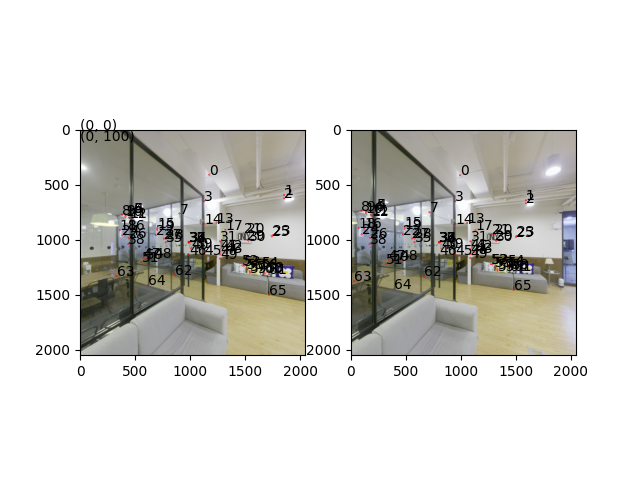
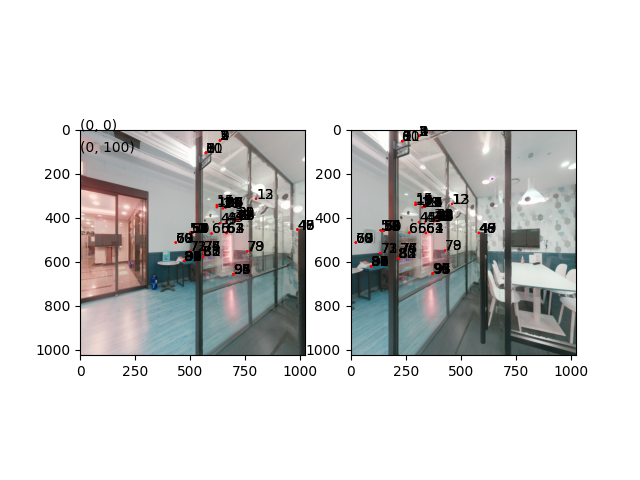
logging config

Changed region(s): [[0.0625, 0.25, 0.9062, 0.7812], [0.0625, 0.7188, 0.0938, 0.75]]

diff --git a/Train_model_frontend_cubemap.py b/Train_model_frontend_cubemap.py
@@ -4,6 +4,7 @@ base class: inherited by other Train_model_*.py
 Author: You-Yi Jau, Rui Zhu
 Date: 2019/12/12
 """
+import os
 import logging
 import torch
 import torch.optim
@@ -19,7 +20,7 @@ from utils.tools import dict_update
 from utils.utils import labels2Dto3D, flattenDetection, labels2Dto3D_flattened
 from utils.utils import pltImshow, saveImg
 from utils.utils import precisionRecall_torch
-from utils.utils import save_checkpoint
+from utils.utils import save_checkpoint, get_log_dir
 
 
 def thd_img(img, thd=0.015):
@@ -195,6 +196,7 @@ class Train_model_frontend_cubemap(object):
             self.net.bnDa.weight.requires_grad = True
             self.net.convDb.weight.requires_grad = True
             self.net.bnDb.weight.requires_grad = True
+            print("\n\n Train only descriptor")
 
         self.optimizer = optimizer
         self.n_iter = setIter(n_iter)
@@ -253,14 +255,14 @@ class Train_model_frontend_cubemap(object):
         running_losses = []
         epoch = 0
         # Train one epoch
-        test = False ##########################################
         while self.n_iter < self.max_iter:
             print("epoch: ", epoch)
             epoch += 1
             self.visualize = True
             for i, sample_train in tqdm(enumerate(self.train_loader)):
                 # train one sample
-                loss_out = self.train_val_sample(sample_train, self.n_iter, True)
+                # loss_out = self.train_val_sample(sample_train, self.n_iter, True)
+                loss_out = 0
                 self.n_iter += 1
                 running_losses.append(loss_out)
                 # run validation
@@ -270,25 +272,25 @@ class Train_model_frontend_cubemap(object):
                         self.train_val_sample(sample_val, self.n_iter + j, False)
                         if j > self.config.get("validation_size", 3):
                             break
+                if self.n_iter % 100 == 0:
+                    iterlog = f"iter {self.n_iter}, loss: {self.loss}"
+                    print(iterlog)
+                    self.write_log(iterlog)
                 # save model
                 if self.n_iter % self.config["save_interval"] == 0:
-                    logging.info(
-                        "save model: every %d interval, current iteration: %d",
-                        self.config["save_interval"],
-                        self.n_iter,
-                    )
                     self.saveModel()
                 # ending condition
                 if self.n_iter > self.max_iter:
                     # end training
                     logging.info("End training: %d", self.n_iter)
                     break
-                if test:
-                    break
-            if test:
-                break
 
         pass
+    def write_log(self, string):
+        logfile = os.path.join(self.save_path, 'log.txt')
+        with open(logfile, 'a') as f:
+            f.write(string)
+            f.write("\n")
 
     def getLabels(self, labels_2D, cell_size, device="cpu"):
         """
@@ -373,11 +375,11 @@ class Train_model_frontend_cubemap(object):
         semi, coarse_desc = outs['semi'], outs['desc']
         semi_warp, coarse_desc_warp = outs_warp['semi'], outs_warp['desc']
 
-        thd = 0.4
+        thd = 0.1
 
         desc = self.interpolate_to_dense(coarse_desc)
         desc_w = self.interpolate_to_dense(coarse_desc_warp)
-
+        
         hms = thd_img(flattenDetection(semi), thd=thd)
         hms_w = thd_img(flattenDetection(semi_warp), thd=thd)
         loss = 0
@@ -389,20 +391,23 @@ class Train_model_frontend_cubemap(object):
 
             dbs= sample['kpts2D'][b].to(self.device)
             dbs_w= sample['kpts2D_w'][b].to(self.device)
+            dbs, dbs_w = (dbs*0.5).int().float(), (dbs_w*0.5).int().float()
 
             output_kpts_idx = []
             output_3Dcoor = []
             dbslist = dbs.detach().cpu().tolist()
             dbslist_w = dbs_w.detach().cpu().tolist()
             for i, pt in enumerate(kpts.detach().cpu().tolist()):
-                if pt in dbslist:
+                pt = self.pt_in_list(pt=pt, dblist=dbslist)
+                if pt:
                     output_kpts_idx.append(i)            # output_kpts_idx: [2, 3, 5, 6, 7, 9, ...] db에 있는 kpt 인덱스
                     output_3Dcoor.append(sample['kpts3D'][b][dbslist.index(pt)])   # [2번의3D좌표, 3번의 3D좌표, 5번의 3D좌표, ...]
 
             output_kpts_idx_w = []
             output_3Dcoor_w = []
             for i, pt_w in enumerate(kpts_w.detach().cpu().tolist()):
-                if pt_w in dbslist_w:
+                pt_w = self.pt_in_list(pt=pt_w, dblist=dbslist_w)
+                if pt_w:
                     output_kpts_idx_w.append(i)
                     output_3Dcoor_w.append(sample['kpts3D_w'][b][dbslist_w.index(pt_w)])
 
@@ -423,15 +428,16 @@ class Train_model_frontend_cubemap(object):
                 kpts, matched_kpts_idx, 
                 kpts_w, matched_kpts_idx_w
             )
-            if self.visualize and b == 0:
-                self.visualize_kpts(
-                    sample['img_path'][b], 
-                    sample['img_path_w'][b], 
-                    kpts[matched_kpts_idx.int()], 
-                    kpts_w[matched_kpts_idx_w.int()], 
-                    n=1000)
-                self.visualize = False
-                self.figname += 1
+            if b == 0:
+                if self.figname < 20:
+                    self.visualize_kpts(
+                        img, 
+                        img_w, 
+                        kpts[matched_kpts_idx.int()], 
+                        kpts_w[matched_kpts_idx_w.int()], 
+                        n=1000)
+                    self.visualize = False
+                    self.figname += 1
             loss += loss_desc
 
         self.loss = loss
@@ -441,12 +447,18 @@ class Train_model_frontend_cubemap(object):
 
         return loss.item()
 
+    def pt_in_list(self, pt, dblist):
+        for xvar in [-1, 0, 1]:
+            for yvar in [-1, 0, 1]:
+                if [pt[0]+xvar, pt[1]+yvar] in dblist:
+                    return [pt[0]+xvar, pt[1]+yvar]
+        return False
     def saveModel(self):
         """
         # save checkpoint for resuming training
         :return:
         """
-        model_state_dict = self.net.module.state_dict()
+        model_state_dict = self.net.state_dict()
         save_checkpoint(
             self.save_path,
             {
@@ -477,7 +489,16 @@ class Train_model_frontend_cubemap(object):
             self.writer.add_image(task + "-" + name, img_tensor[:, :, :], n_iter)
 
     def visualize_kpts(self, imname1, imname2, kpts1, kpts2, n=3):
-        im1, im2 = np.array(Image.open(imname1)), np.array(Image.open(imname2))
+        if type(imname1) == str:
+            im1, im2 = np.array(Image.open(imname1)), np.array(Image.open(imname2))
+        else:
+            if imname1.shape[1] == 3:
+                imname1 = imname1[0].transpose(0,1).transpose(1,2)
+                imname2 = imname2[0].transpose(0,1).transpose(1,2)
+            elif imname.shape[0] == 3:
+                imname1 = imname1.transpose(0,1).transpose(1,2)
+                imname2 = imname2.transpose(0,1).transpose(1,2)
+            im1, im2 = imname1.detach().cpu().numpy(), imname2.detach().cpu().numpy()
         R = 2
         fig, ax = plt.subplots(1, 2) 
         
@@ -500,7 +521,7 @@ class Train_model_frontend_cubemap(object):
             i += 1
             if i>=n:
                 break
-        plt.savefig(f'figures/{self.figname}.png')
+        plt.savefig(os.path.join(self.save_path, f'figures/{self.figname}.png'))
 
     # tensorboard
     def addImg2tensorboard(

diff --git a/train_cubemap.py b/train_cubemap.py
@@ -17,7 +17,7 @@ import torch.utils.data
 from tensorboardX import SummaryWriter
 
 # from utils.utils import tensor2array, save_checkpoint, load_checkpoint, save_path_formatter
-from utils.utils import getWriterPath
+from utils.utils import getWriterPath, get_log_dir
 from settings import EXPER_PATH
 
 ## loaders: data, model, pretrained model
@@ -55,17 +55,14 @@ def train_joint(config, output_dir, args):
     
     device = torch.device("cuda" if torch.cuda.is_available() else "cpu")
     logging.info('train on device: %s', device)
+    output_dir = get_log_dir('logs')
     with open(os.path.join(output_dir, 'config.yml'), 'w') as f:
         yaml.dump(config, f, default_flow_style=False)
-    # writer = SummaryWriter(getWriterPath(task=args.command, date=True))
-    writer = SummaryWriter(getWriterPath(task=args.command, 
-        exper_name=args.exper_name, date=True))
     ## save data
-    save_path = get_save_path(output_dir)
 
     # data loading
     # data = dataLoader(config, dataset='syn', warp_input=True)
-    data = dataLoader(config, dataset=task, warp_input=True)
+    data = dataLoader(config, dataset=config['data']['dataset'], warp_input=True)
     train_loader, val_loader = data['train_loader'], data['val_loader']
 
     datasize(train_loader, config, tag='train')
@@ -75,10 +72,7 @@ def train_joint(config, output_dir, args):
     from utils.loader import get_module
     train_model_frontend = get_module('', config['front_end_model'])
 
-    train_agent = train_model_frontend(config, save_path=save_path, device=device)
-
-    # writer from tensorboard
-    train_agent.writer = writer
+    train_agent = train_model_frontend(config, save_path=output_dir, device=device)
 
     # feed the data into the agent
     train_agent.train_loader = train_loader
@@ -132,13 +126,13 @@ if __name__ == '__main__':
 
     with open(args.config, 'r') as f:
         config = yaml.safe_load(f)
-    # EXPER_PATH from settings.py
-    output_dir = os.path.join(EXPER_PATH, args.exper_name)
-    os.makedirs(output_dir, exist_ok=True)
+
+    EXPER_PATH = 'logs'
+    os.makedirs(EXPER_PATH, exist_ok=True)
 
     # with capture_outputs(os.path.join(output_dir, 'log')):
 
     logging.info('Running command {}'.format(args.command.upper()))
-    args.func(config, output_dir, args)
+    args.func(config, EXPER_PATH, args)
 
 

diff --git a/utils/utils.py b/utils/utils.py
@@ -4,6 +4,7 @@
 # warping
 # loss --> delete if useless
 """
+import os
 
 import numpy as np
 import torch
@@ -119,12 +120,24 @@ def find_files_with_ext(directory, extension='.npz'):
                 # print(l)
         return list_of_files
 
+def get_timeinfo():
+    import datetime 
+    now = datetime.datetime.now()
+    timeinfo = f"{str(now.year)[2:]}{now.month}{now.day}_{now.hour}{now.minute}{now.second}"
+    return timeinfo
+
+def get_log_dir(save_path, runname='RD'):
+    logdir = os.path.join(save_path, f"{get_timeinfo()}_{runname}")
+    os.mkdir(logdir)
+    return logdir
+
 def save_checkpoint(save_path, net_state, epoch, filename='checkpoint.pth.tar'):
-    file_prefix = ['superPointNet']
-    # torch.save(net_state, save_path)
-    filename = '{}_{}_{}'.format(file_prefix[0], str(epoch), filename)
-    torch.save(net_state, save_path/filename)
-    print("save checkpoint to ", filename)
+    save_path = os.path.join(save_path, 'checkpoints')
+    os.makedirs(save_path, exist_ok=True)
+
+    filename = 'RD_{}_epo{}_{}'.format(get_timeinfo(), str(epoch), filename)
+    torch.save(net_state, os.path.join(save_path, filename))
+    print("\nSaved checkpoint to ", filename)
     pass
 
 def load_checkpoint(load_path, filename='checkpoint.pth.tar'):

diff --git a/README.md b/README.md
@@ -1,3 +1,3 @@
 # RepeatableDescriptor
 
-python train4.py train_base configs/magicpoint_cubemap.yaml CubemapDataset
+python train_cubemap.py train_base configs/magicpoint_cubemap.yaml CubemapDataset
